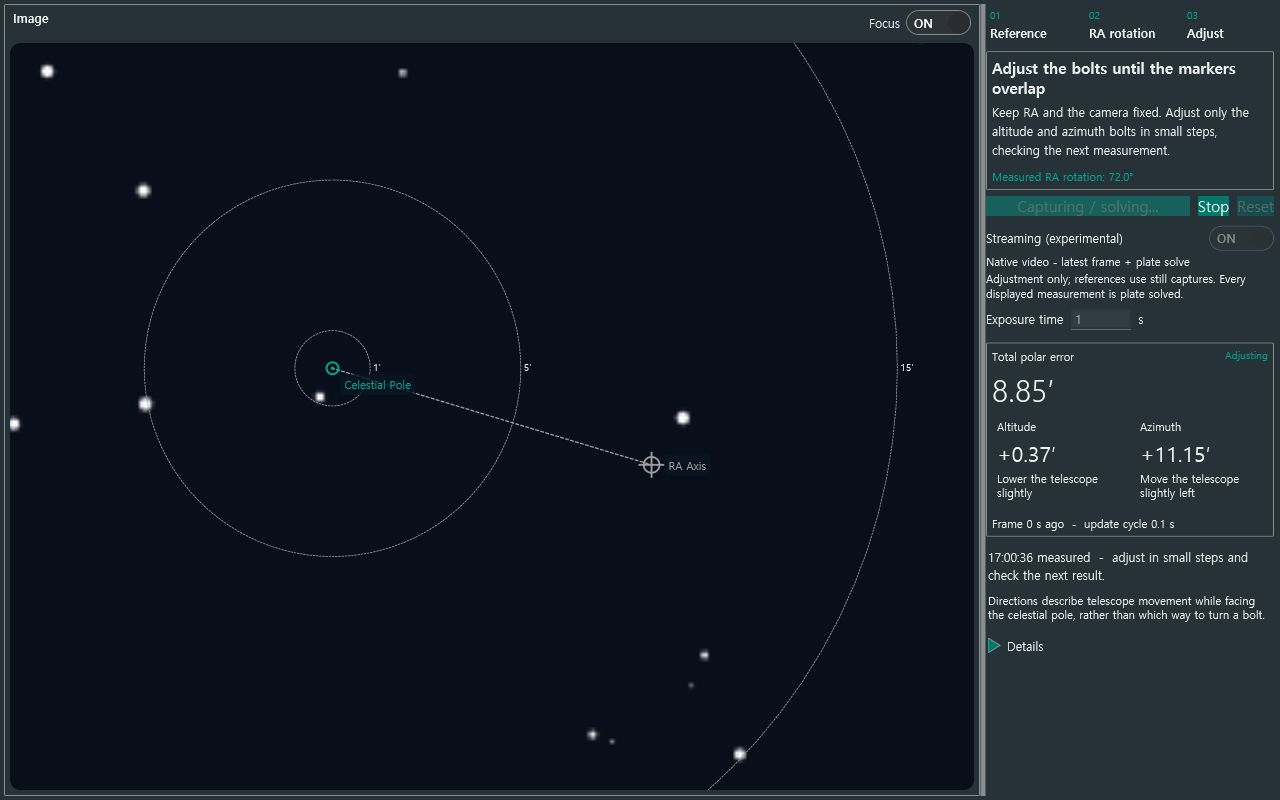
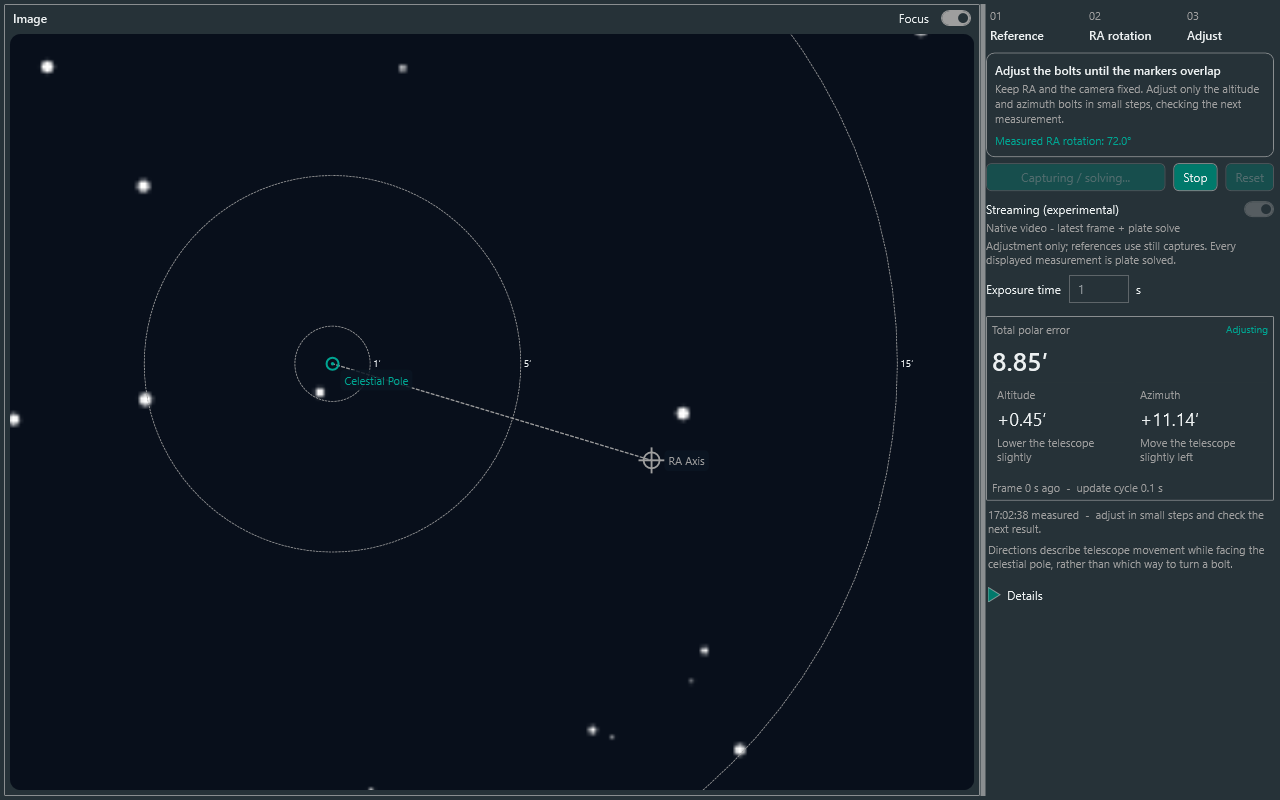
Match Live Focus typography and compact control styling

diff --git a/src/Nina.LivePolarAlignment/UI/PolarAlignmentView.xaml b/src/Nina.LivePolarAlignment/UI/PolarAlignmentView.xaml
@@ -3,14 +3,87 @@
  xmlns:x="http://schemas.microsoft.com/winfx/2006/xaml"
  xmlns:ns="clr-namespace:NINA.Core.Locale;assembly=NINA.Core"
  xmlns:local="clr-namespace:Nina.LivePolarAlignment.UI"
- MinWidth="320" Background="{DynamicResource BackgroundBrush}" Foreground="{DynamicResource PrimaryBrush}" FontSize="12">
- <UserControl.Resources><Style TargetType="TextBlock" BasedOn="{StaticResource StandardTextBlock}"><Setter Property="TextWrapping" Value="Wrap"/></Style><BooleanToVisibilityConverter x:Key="VisibleIf"/><Style x:Key="Caption" TargetType="TextBlock"><Setter Property="FontSize" Value="11"/><Setter Property="TextWrapping" Value="Wrap"/></Style><Style x:Key="StepCard" TargetType="Border"><Setter Property="Padding" Value="4"/></Style></UserControl.Resources>
+ MinWidth="320" Background="{DynamicResource BackgroundBrush}" Foreground="{DynamicResource PrimaryBrush}" FontFamily="Segoe UI" FontSize="12">
+ <UserControl.Resources>
+      <Style x:Key="AlignmentButton" TargetType="Button">
+        <Setter Property="FontSize" Value="12"/><Setter Property="FontWeight" Value="Normal"/><Setter Property="MinHeight" Value="28" />
+        <Setter Property="Padding" Value="9,3" />
+        <Setter Property="Foreground" Value="{DynamicResource PrimaryBrush}" />
+        <Setter Property="Background" Value="{DynamicResource ButtonBackgroundBrush}" />
+        <Setter Property="BorderBrush" Value="{DynamicResource BorderBrush}" />
+        <Setter Property="BorderThickness" Value="1" />
+        <Setter Property="Template">
+          <Setter.Value>
+            <ControlTemplate TargetType="Button">
+              <Border x:Name="Surface" Background="{TemplateBinding Background}" BorderBrush="{TemplateBinding BorderBrush}" BorderThickness="{TemplateBinding BorderThickness}" CornerRadius="5" Padding="{TemplateBinding Padding}">
+                <ContentPresenter Content="{TemplateBinding Content}" ContentTemplate="{TemplateBinding ContentTemplate}" TextElement.Foreground="{TemplateBinding Foreground}" HorizontalAlignment="Center" VerticalAlignment="Center" />
+              </Border>
+              <ControlTemplate.Triggers>
+                <Trigger Property="IsMouseOver" Value="True">
+                  <Setter TargetName="Surface" Property="Background" Value="{DynamicResource ButtonBackgroundSelectedBrush}" />
+                  <Setter Property="Foreground" Value="{DynamicResource ButtonForegroundBrush}" />
+                </Trigger>
+                <Trigger Property="IsKeyboardFocused" Value="True">
+                  <Setter TargetName="Surface" Property="BorderBrush" Value="{DynamicResource SecondaryBrush}" />
+                </Trigger>
+                <Trigger Property="IsPressed" Value="True">
+                  <Setter TargetName="Surface" Property="Background" Value="{DynamicResource ButtonBackgroundBrush}" />
+                  <Setter Property="Foreground" Value="{DynamicResource ButtonForegroundBrush}" />
+                </Trigger>
+                <Trigger Property="IsEnabled" Value="False">
+                  <Setter TargetName="Surface" Property="Opacity" Value="0.4" />
+                </Trigger>
+              </ControlTemplate.Triggers>
+            </ControlTemplate>
+          </Setter.Value>
+        </Setter>
+      </Style>
+      <Style x:Key="AlignmentSwitch" TargetType="ToggleButton">
+        <Setter Property="Foreground" Value="{DynamicResource PrimaryBrush}" />
+        <Setter Property="Template">
+          <Setter.Value>
+            <ControlTemplate TargetType="ToggleButton">
+              <StackPanel Orientation="Horizontal" VerticalAlignment="Center">
+                <TextBlock Text="{TemplateBinding Content}" Foreground="{TemplateBinding Foreground}" VerticalAlignment="Center" Margin="0,0,6,0" FontSize="11" />
+                <Border x:Name="Track" Width="30" Height="16" CornerRadius="8" Background="{DynamicResource ButtonBackgroundBrush}" BorderBrush="{DynamicResource SecondaryBrush}" BorderThickness="1">
+                  <Ellipse x:Name="Thumb" Width="10" Height="10" Fill="{DynamicResource PrimaryBrush}" HorizontalAlignment="Left" VerticalAlignment="Center" Margin="2,0" />
+                </Border>
+              </StackPanel>
+              <ControlTemplate.Triggers>
+                <Trigger Property="IsChecked" Value="True">
+                  <Setter TargetName="Thumb" Property="HorizontalAlignment" Value="Right" />
+                  <Setter TargetName="Track" Property="Background" Value="{DynamicResource SecondaryBrush}" />
+                  <Setter TargetName="Thumb" Property="Fill" Value="{DynamicResource BackgroundBrush}" />
+                </Trigger>
+                <Trigger Property="IsKeyboardFocused" Value="True">
+                  <Setter TargetName="Track" Property="BorderBrush" Value="{DynamicResource PrimaryBrush}" />
+                </Trigger>
+                <Trigger Property="IsEnabled" Value="False">
+                  <Setter Property="Opacity" Value="0.4" />
+                </Trigger>
+              </ControlTemplate.Triggers>
+            </ControlTemplate>
+          </Setter.Value>
+        </Setter>
+      </Style>
+      <Style TargetType="TextBox">
+        <Setter Property="Background" Value="{DynamicResource BackgroundBrush}" />
+        <Setter Property="Foreground" Value="{DynamicResource PrimaryBrush}" />
+        <Setter Property="VerticalContentAlignment" Value="Center" />
+        <Setter Property="VerticalAlignment" Value="Center" />
+        <Setter Property="MinHeight" Value="28" />
+        <Setter Property="CaretBrush" Value="{DynamicResource PrimaryBrush}" />
+        <Setter Property="BorderBrush" Value="{DynamicResource BorderBrush}" />
+        <Setter Property="Padding" Value="6,3" />
+      </Style>
+
+<Style TargetType="TextBlock" BasedOn="{StaticResource StandardTextBlock}"><Setter Property="TextWrapping" Value="Wrap"/></Style><BooleanToVisibilityConverter x:Key="VisibleIf"/><Style x:Key="Caption" TargetType="TextBlock" BasedOn="{StaticResource StandardTextBlock}"><Setter Property="Foreground" Value="{DynamicResource SecondaryBrush}"/><Setter Property="FontSize" Value="11"/><Setter Property="TextWrapping" Value="Wrap"/></Style><Style x:Key="StepCard" TargetType="Border"><Setter Property="Padding" Value="4"/></Style></UserControl.Resources>
  <Grid x:Name="WorkspaceGrid" Margin="4">
   <Grid.RowDefinitions><RowDefinition Height="Auto"/><RowDefinition x:Name="ImageRow" Height="*"/><RowDefinition x:Name="NarrowControlsRow" Height="0"/></Grid.RowDefinitions>
   <Grid.ColumnDefinitions><ColumnDefinition Width="*"/><ColumnDefinition x:Name="DividerColumn" Width="6"/><ColumnDefinition x:Name="ControlsColumn" Width="290" MinWidth="270" MaxWidth="480"/></Grid.ColumnDefinitions>
   <Border x:Name="ImagePanel" Grid.Row="1" Grid.Column="0" Background="{DynamicResource BackgroundBrush}" BorderBrush="{DynamicResource BorderBrush}" BorderThickness="1" CornerRadius="1" Padding="5">
    <DockPanel LastChildFill="True">
-    <Grid DockPanel.Dock="Top" Margin="3,0,3,8"><Grid.ColumnDefinitions><ColumnDefinition Width="*"/><ColumnDefinition Width="Auto"/></Grid.ColumnDefinitions><TextBlock Text="{ns:Loc LblImage}" Foreground="{DynamicResource PrimaryBrush}" FontWeight="SemiBold"/><StackPanel Grid.Column="1" Orientation="Horizontal"><TextBlock Text="{local:UiLoc Focus}" VerticalAlignment="Center" Margin="0,0,6,0"/><CheckBox ToolTip="{local:UiLoc FocusTip}" IsChecked="{Binding FocusAlignment, ElementName=SkyField}"/></StackPanel></Grid>
+    <Grid DockPanel.Dock="Top" Margin="3,0,3,8"><Grid.ColumnDefinitions><ColumnDefinition Width="*"/><ColumnDefinition Width="Auto"/></Grid.ColumnDefinitions><TextBlock Text="{ns:Loc LblImage}" Foreground="{DynamicResource PrimaryBrush}" FontWeight="SemiBold"/><StackPanel Grid.Column="1" Orientation="Horizontal"><TextBlock Text="{local:UiLoc Focus}" VerticalAlignment="Center" Margin="0,0,6,0"/><ToggleButton Style="{StaticResource AlignmentSwitch}" ToolTip="{local:UiLoc FocusTip}" IsChecked="{Binding FocusAlignment, ElementName=SkyField}"/></StackPanel></Grid>
     <local:PolarFieldView x:Name="SkyField" Preview="{Binding LivePreview}" Guidance="{Binding FieldGuidance}" IsCurrent="{Binding HasCurrentFieldGuidance}" PixelScale="{Binding PixelScaleArcseconds}" HorizontalAlignment="Stretch" VerticalAlignment="Stretch"/>
    </DockPanel>
   </Border>
@@ -22,22 +95,22 @@
     <Grid.ColumnDefinitions><ColumnDefinition Width="*"/><ColumnDefinition Width="*"/><ColumnDefinition Width="*"/></Grid.ColumnDefinitions>
     <Border Margin="0,0,5,0">
      <Border.Style><Style TargetType="Border" BasedOn="{StaticResource StepCard}"><Style.Triggers><DataTrigger Binding="{Binding WorkflowStep}" Value="0"><Setter Property="Background" Value="{DynamicResource BackgroundBrush}"/><Setter Property="BorderBrush" Value="{DynamicResource ButtonBackgroundSelectedBrush}"/></DataTrigger></Style.Triggers></Style></Border.Style>
-     <StackPanel><TextBlock Text="01" Foreground="{DynamicResource ButtonBackgroundSelectedBrush}" FontSize="10"/><TextBlock Text="{local:UiLoc View1}" FontWeight="SemiBold" Margin="0,4,0,0"/></StackPanel>
+     <StackPanel><TextBlock Text="01" Foreground="{DynamicResource SecondaryBrush}" FontSize="11"/><TextBlock Text="{local:UiLoc View1}" FontWeight="SemiBold" Margin="0,4,0,0"/></StackPanel>
     </Border>
     <Border Grid.Column="1" Margin="3,0,3,0">
      <Border.Style><Style TargetType="Border" BasedOn="{StaticResource StepCard}"><Style.Triggers><DataTrigger Binding="{Binding WorkflowStep}" Value="1"><Setter Property="Background" Value="{DynamicResource BackgroundBrush}"/><Setter Property="BorderBrush" Value="{DynamicResource ButtonBackgroundSelectedBrush}"/></DataTrigger></Style.Triggers></Style></Border.Style>
-     <StackPanel><TextBlock Text="02" Foreground="{DynamicResource ButtonBackgroundSelectedBrush}" FontSize="10"/><TextBlock Text="{local:UiLoc View2}" FontWeight="SemiBold" Margin="0,4,0,0"/></StackPanel>
+     <StackPanel><TextBlock Text="02" Foreground="{DynamicResource SecondaryBrush}" FontSize="11"/><TextBlock Text="{local:UiLoc View2}" FontWeight="SemiBold" Margin="0,4,0,0"/></StackPanel>
     </Border>
     <Border Grid.Column="2" Margin="5,0,0,0">
      <Border.Style><Style TargetType="Border" BasedOn="{StaticResource StepCard}"><Style.Triggers><DataTrigger Binding="{Binding WorkflowStep}" Value="2"><Setter Property="Background" Value="{DynamicResource BackgroundBrush}"/><Setter Property="BorderBrush" Value="{DynamicResource ButtonBackgroundSelectedBrush}"/></DataTrigger></Style.Triggers></Style></Border.Style>
-     <StackPanel><TextBlock Text="03" Foreground="{DynamicResource ButtonBackgroundSelectedBrush}" FontSize="10"/><TextBlock Text="{local:UiLoc View3}" FontWeight="SemiBold" Margin="0,4,0,0"/></StackPanel>
+     <StackPanel><TextBlock Text="03" Foreground="{DynamicResource SecondaryBrush}" FontSize="11"/><TextBlock Text="{local:UiLoc View3}" FontWeight="SemiBold" Margin="0,4,0,0"/></StackPanel>
     </Border>
    </Grid>
 
-   <Border Background="{DynamicResource BackgroundBrush}" BorderBrush="{DynamicResource BorderBrush}" BorderThickness="1" CornerRadius="1" Padding="5" Margin="0,0,0,6">
+   <Border Background="{DynamicResource BackgroundBrush}" BorderBrush="{DynamicResource BorderBrush}" BorderThickness="1" CornerRadius="8" Padding="8" Margin="0,0,0,6">
     <StackPanel>
-     <TextBlock Text="{Binding WorkflowTitle}" FontSize="15" FontWeight="SemiBold"/>
-     <TextBlock Text="{Binding WorkflowDescription}" Foreground="{DynamicResource PrimaryBrush}" LineHeight="19" Margin="0,7,0,0"/>
+     <TextBlock Text="{Binding WorkflowTitle}" FontSize="12" FontWeight="SemiBold"/>
+     <TextBlock Text="{Binding WorkflowDescription}" Style="{StaticResource Caption}" Margin="0,4,0,0"/>
      <TextBlock Text="{Binding RotationReadout}" Foreground="{DynamicResource ButtonBackgroundSelectedBrush}" FontSize="11" Margin="0,8,0,0" Visibility="{Binding IsAdjustmentStep, Converter={StaticResource VisibleIf}}"/>
      <Grid Margin="0,12,0,0" Visibility="{Binding IsRotationStep, Converter={StaticResource VisibleIf}}">
       <Grid.ColumnDefinitions><ColumnDefinition Width="90"/><ColumnDefinition Width="*"/></Grid.ColumnDefinitions>
@@ -58,12 +131,12 @@
 
    <Grid Margin="0,0,0,10">
     <Grid.ColumnDefinitions><ColumnDefinition Width="*"/><ColumnDefinition Width="Auto"/><ColumnDefinition Width="Auto"/></Grid.ColumnDefinitions>
-    <Button Foreground="{DynamicResource ButtonForegroundBrush}" Content="{Binding PrimaryActionLabel}" Command="{Binding PrimaryActionCommand}" Background="{DynamicResource ButtonBackgroundSelectedBrush}" BorderBrush="{DynamicResource ButtonBackgroundSelectedBrush}" Margin="0,0,8,0"/>
-    <Button Foreground="{DynamicResource ButtonForegroundBrush}" Grid.Column="1" Content="{ns:Loc LblStop}" Command="{Binding StopLiveCommand}" Margin="0,0,8,0"/>
-    <Button Foreground="{DynamicResource ButtonForegroundBrush}" Grid.Column="2" Content="{local:UiLoc View5}" ToolTip="{local:UiLoc View6}" Command="{Binding ResetLiveCommand}" Padding="6,5"/>
+    <Button Style="{StaticResource AlignmentButton}" Content="{Binding PrimaryActionLabel}" Command="{Binding PrimaryActionCommand}" Margin="0,0,8,0"/>
+    <Button Style="{StaticResource AlignmentButton}" Grid.Column="1" Content="{ns:Loc LblStop}" Command="{Binding StopLiveCommand}" Margin="0,0,8,0"/>
+    <Button Style="{StaticResource AlignmentButton}" Grid.Column="2" Content="{local:UiLoc View5}" ToolTip="{local:UiLoc View6}" Command="{Binding ResetLiveCommand}"/>
    </Grid>
    <StackPanel Margin="0,0,0,8">
-    <DockPanel><TextBlock Text="{local:UiLoc StreamingOption}" VerticalAlignment="Center"/><CheckBox DockPanel.Dock="Right" HorizontalAlignment="Right" IsChecked="{Binding UseStreaming}" IsEnabled="{Binding CanUseStreaming}" ToolTip="{Binding StreamingAvailability}"/></DockPanel>
+    <DockPanel><TextBlock Text="{local:UiLoc StreamingOption}" VerticalAlignment="Center"/><ToggleButton Style="{StaticResource AlignmentSwitch}" DockPanel.Dock="Right" HorizontalAlignment="Right" IsChecked="{Binding UseStreaming}" IsEnabled="{Binding CanUseStreaming}" ToolTip="{Binding StreamingAvailability}"/></DockPanel>
     <TextBlock Text="{Binding AcquisitionMode}" Style="{StaticResource Caption}" Margin="0,3,0,0"/>
     <TextBlock Text="{Binding StreamingAvailability}" Style="{StaticResource Caption}" Margin="0,3,0,0"/>
    </StackPanel>
@@ -79,18 +152,18 @@
    <Border Background="{DynamicResource BackgroundBrush}" BorderBrush="{DynamicResource BorderBrush}" BorderThickness="1" CornerRadius="1" Padding="5">
     <StackPanel>
      <Grid Margin="0,0,0,6"><Grid.ColumnDefinitions><ColumnDefinition Width="*"/><ColumnDefinition Width="Auto"/></Grid.ColumnDefinitions><TextBlock Text="{local:UiLoc View10}" Style="{StaticResource Caption}"/><TextBlock Grid.Column="1" Text="{Binding MeasurementState}" FontSize="10" Foreground="{DynamicResource ButtonBackgroundSelectedBrush}"/></Grid>
-     <TextBlock Text="{Binding LiveTotalError}" FontSize="30" FontWeight="Light" Margin="0,0,0,5">
+     <TextBlock Text="{Binding LiveTotalError}" FontSize="26" FontWeight="SemiBold" Margin="0,0,0,5">
       <TextBlock.Style><Style TargetType="TextBlock"><Setter Property="Foreground" Value="{DynamicResource PrimaryBrush}"/><Style.Triggers><DataTrigger Binding="{Binding IsMeasurementStale}" Value="True"><Setter Property="Foreground" Value="{DynamicResource PrimaryBrush}"/></DataTrigger><DataTrigger Binding="{Binding IsWithinTarget}" Value="True"><Setter Property="Foreground" Value="{DynamicResource ButtonBackgroundSelectedBrush}"/></DataTrigger></Style.Triggers></Style></TextBlock.Style>
      </TextBlock>
      <Grid>
       <Grid.ColumnDefinitions><ColumnDefinition Width="*"/><ColumnDefinition Width="*"/></Grid.ColumnDefinitions>
-      <Border Background="{DynamicResource BackgroundBrush}" CornerRadius="1" Padding="5" Margin="0,0,5,0"><StackPanel><TextBlock Text="{ns:Loc LblAltitude}" Style="{StaticResource Caption}"/><TextBlock Text="{Binding AltitudeValue}" FontSize="21" Margin="0,5,0,4"/><TextBlock Text="{Binding AltitudeAction}" FontSize="11" Foreground="{DynamicResource PrimaryBrush}"/></StackPanel></Border>
-      <Border Grid.Column="1" Background="{DynamicResource BackgroundBrush}" CornerRadius="1" Padding="5" Margin="5,0,0,0"><StackPanel><TextBlock Text="{ns:Loc LblAzimuth}" Style="{StaticResource Caption}"/><TextBlock Text="{Binding AzimuthValue}" FontSize="21" Margin="0,5,0,4"/><TextBlock Text="{Binding AzimuthAction}" FontSize="11" Foreground="{DynamicResource PrimaryBrush}"/></StackPanel></Border>
+      <Border Background="{DynamicResource BackgroundBrush}" CornerRadius="1" Padding="5" Margin="0,0,5,0"><StackPanel><TextBlock Text="{ns:Loc LblAltitude}" Style="{StaticResource Caption}"/><TextBlock Text="{Binding AltitudeValue}" FontSize="18" Margin="0,5,0,4"/><TextBlock Text="{Binding AltitudeAction}" Style="{StaticResource Caption}"/></StackPanel></Border>
+      <Border Grid.Column="1" Background="{DynamicResource BackgroundBrush}" CornerRadius="1" Padding="5" Margin="5,0,0,0"><StackPanel><TextBlock Text="{ns:Loc LblAzimuth}" Style="{StaticResource Caption}"/><TextBlock Text="{Binding AzimuthValue}" FontSize="18" Margin="0,5,0,4"/><TextBlock Text="{Binding AzimuthAction}" Style="{StaticResource Caption}"/></StackPanel></Border>
      </Grid>
      <TextBlock Text="{Binding FrameFreshness}" Style="{StaticResource Caption}" Margin="0,11,0,0"/>
     </StackPanel>
    </Border>
-   <TextBlock Text="{Binding LiveStatus}" Foreground="{DynamicResource PrimaryBrush}" LineHeight="18" Margin="2,12,2,8"/>
+   <TextBlock Text="{Binding LiveStatus}" Style="{StaticResource Caption}" Margin="2,6,2,6"/>
    <TextBlock Text="{local:UiLoc View11}" Style="{StaticResource Caption}" Margin="2,0,2,14"/>
 
-   <Expander Header="{ns:Loc LblDetails}"><TextBlock Text="{local:UiLoc Details}" TextWrapping="Wrap"/></Expander></StackPanel></ScrollViewer></Grid></UserControl>
+   <Expander Header="{ns:Loc LblDetails}"><TextBlock Text="{local:UiLoc Details}" Style="{StaticResource Caption}"/></Expander></StackPanel></ScrollViewer></Grid></UserControl>
